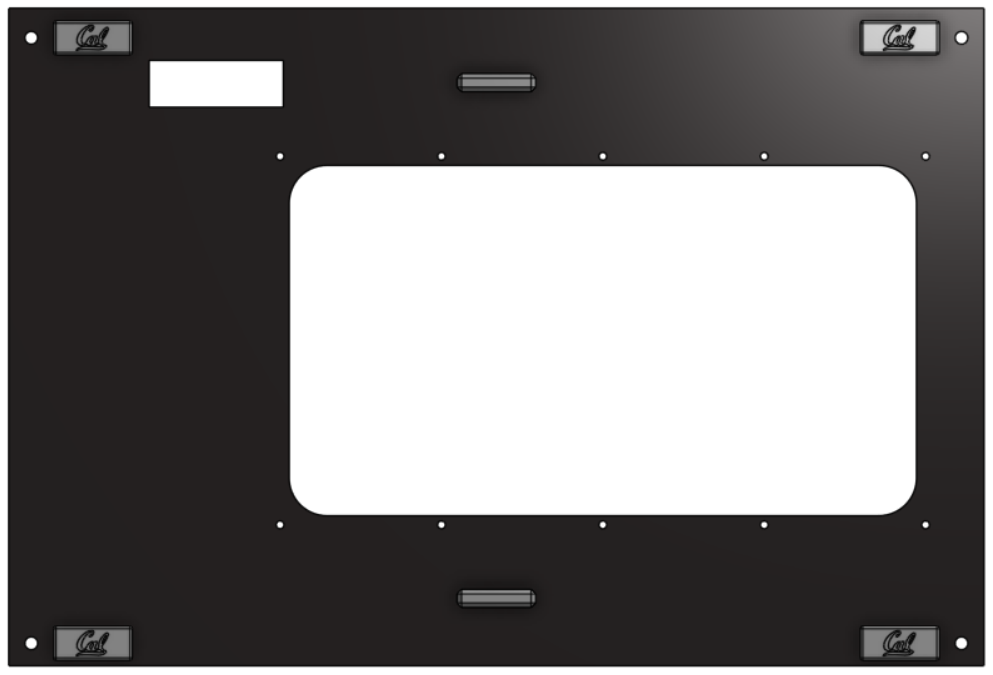
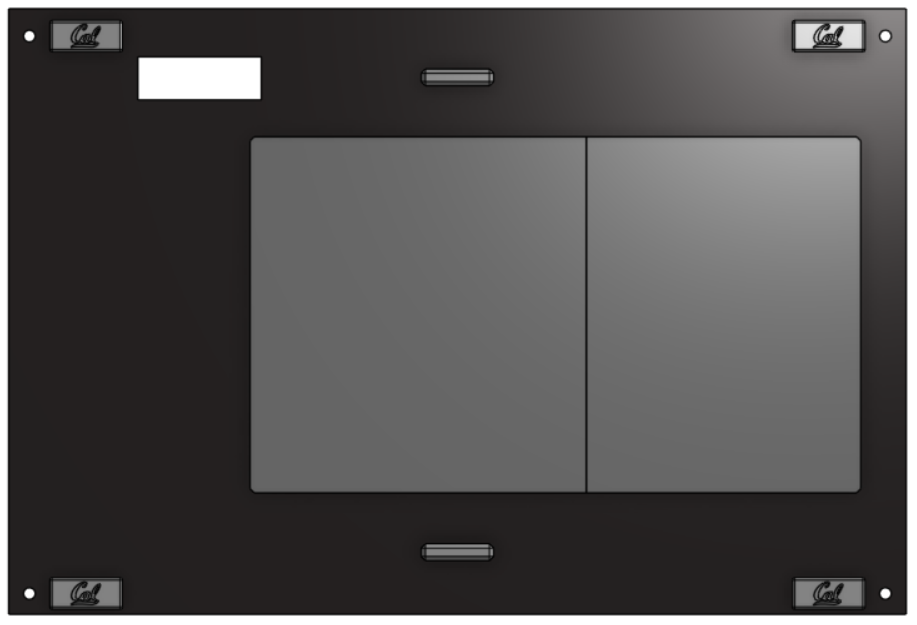
more images

diff --git a/docs/source/step_by_step/main_assembly.rst b/docs/source/step_by_step/main_assembly.rst
@@ -1,8 +1,5 @@
 Main Assembly
 ++++++++++++++
-
-.. image:: ../static/WIP.png
-    :align: center 
     
 **NOTE: ALL SUBASSEMBLIES MUST BE COMPLETED PRIOR TO BEGGINNING THIS PROCESS**
 
@@ -62,13 +59,19 @@ Main Assembly Process - Part 1
 
 ----
 
+.. image:: ../static/Step_by_Step/Main_Assembly/part_1/main1_1_CAD.png
+     :align: center
+
+.. image:: ../static/Step_by_Step/Main_Assembly/part_1/main1_2_CAD.png
+     :align: center
+
+|
+
 Required Tools:
 ^^^^^^^^^^^^^^^
 * M3 Hex/Allen Key
 * Metric Measuring Tape
-
-.. image:: ../static/WIP.png
-    :align: center 
+* Digital/Metric Calipers
 
 Step-by-Step Instructions
 ^^^^^^^^^^^^^^^^^^^^^^^^^
@@ -185,6 +188,21 @@ Main Assembly Process - Part 2
 ===============================
 
 ----
+
+.. image:: ../static/Step_by_Step/Main_Assembly/part_2/main2_1_CAD.png
+     :align: center
+
+.. image:: ../static/Step_by_Step/Main_Assembly/part_2/main2_2_CAD.png
+     :align: center
+
+|
+
+Required Tools:
+^^^^^^^^^^^^^^^
+* M3 Hex/Allen Key
+* Metric Measuring Tape
+* Digital/Metric Calipers
+
 
 #. Carefully place in the **200mm Fresnel Lens** into the front slots on the collimating lens bottom and side mounts. The flat, non-grooved side of the lens should be facing the projector. See images below.
 
